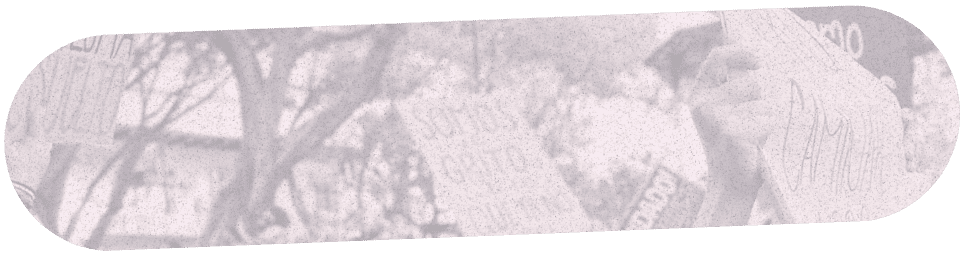
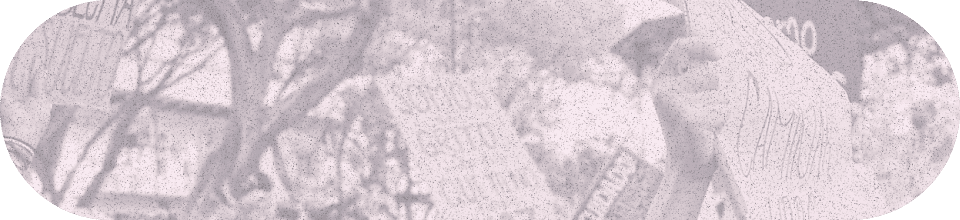
update layout

diff --git a/assets/scss/_eoy.scss b/assets/scss/_eoy.scss
@@ -51,7 +51,6 @@
   flex-direction: column;
   align-items: flex-start;
   padding: 0px;
-  gap: 20px;
 }
 
 #banner-header {
@@ -62,6 +61,7 @@
 .banner-content-spacer {
     margin-top: auto;
     margin-bottom: auto;
+    gap: 36px;
 }
 
 .banner-content-2 {
@@ -95,7 +95,7 @@
   gap: 16px;
   position: absolute;
   left: -10px;
-  top: -10px;
+  top: -25px;
 }
 .banner-sub-headings {
   display: flex;
@@ -103,7 +103,6 @@
   align-items: flex-start;
   transform: matrix(1, -0.04, 0, 1, 0, 0);
   position: relative;
-  top: -10px;
 }
 .banner-sub-heading-bold {
   font-family: 'SpaceGrotesk-Medium', sans-serif;
@@ -113,7 +112,6 @@
   line-height: 100%;
   letter-spacing: -0.05em;
   color: var(--abouttor-yec-heading-alt-color);
-  transform: matrix(1, -0.04, 0.03, 1, 0, 0);
   margin: 0;
 }
 .banner-sub-heading-light {
@@ -124,7 +122,6 @@
   line-height: 100%;
   letter-spacing: -0.05em;
   color: var(--abouttor-yec-heading-color);
-  transform: matrix(1, -0.04, 0.03, 1, 0, 0);
   margin: 0;
 }
 
@@ -135,6 +132,29 @@
   font-weight: 700;
   letter-spacing: -0.05em;
   transform: matrix(1, 0, 0.03, 1, 0, 0);
+}
+
+.yec-background-image {
+  transform: rotate(-2.25deg);
+}
+
+html[dir="rtl"] {
+  .banner-content-2 {
+    flex-direction: row-reverse;
+  }
+  .yec-background-image {
+    transform: rotate(2.25deg);
+  }
+  .banner-sub-headings {
+    transform: matrix(1, 0.04, -0.08, 1, 0, 0);
+  }
+  .yec-foreground-image {
+    transform: scaleX(-1);
+  }
+  .banner-foreground-text {
+    left: auto;
+    right: -10px;
+  }
 }
 
 .banner-donate-text {

diff --git a/templates/banner.html b/templates/banner.html
@@ -11,8 +11,8 @@
   
   <div id="banner-header">
     <div class="banner-content">
-      <div class="banner-content-spacer">
-        <h1 class="banner-heading pb-4">{{ _('POWERED BY PRIVACY:') }}</h1>
+      <div class="banner-content-spacer pt-2">
+        <h1 class="banner-heading pb-4 mb-3">{{ _('POWERED BY PRIVACY:') }}</h1>
 
         <div class="banner-content-2">
           <div class="banner-main-graphics">
@@ -40,7 +40,7 @@
           <div class="banner-cta">
             <p class="banner-donate-text m-0">{{ _('Your donation will be matched by Friends of Tor, up to $100,000.') }}</p>
             <a class="banner-donate-button"
-               href="https://donate.torproject.org/"
+               href="https://donate.torproject.org/donate/donate-pbp-banner"
                target="_blank">
               {{ _('DONATE NOW') }}
             </a>
